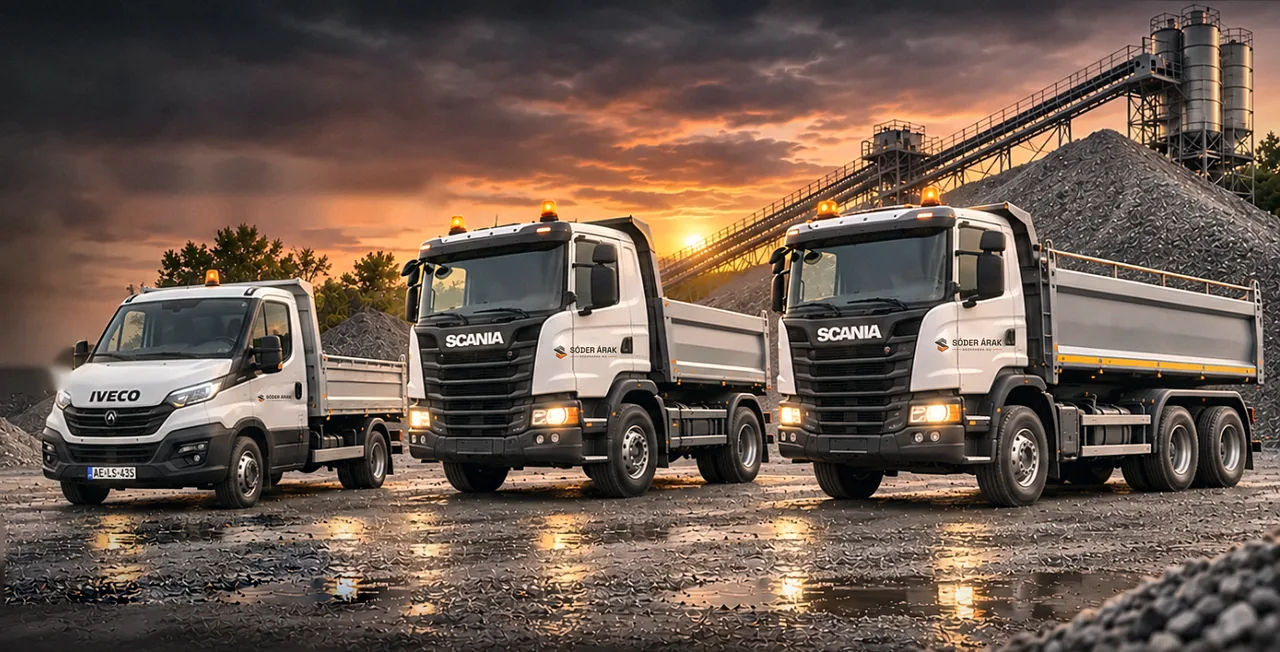
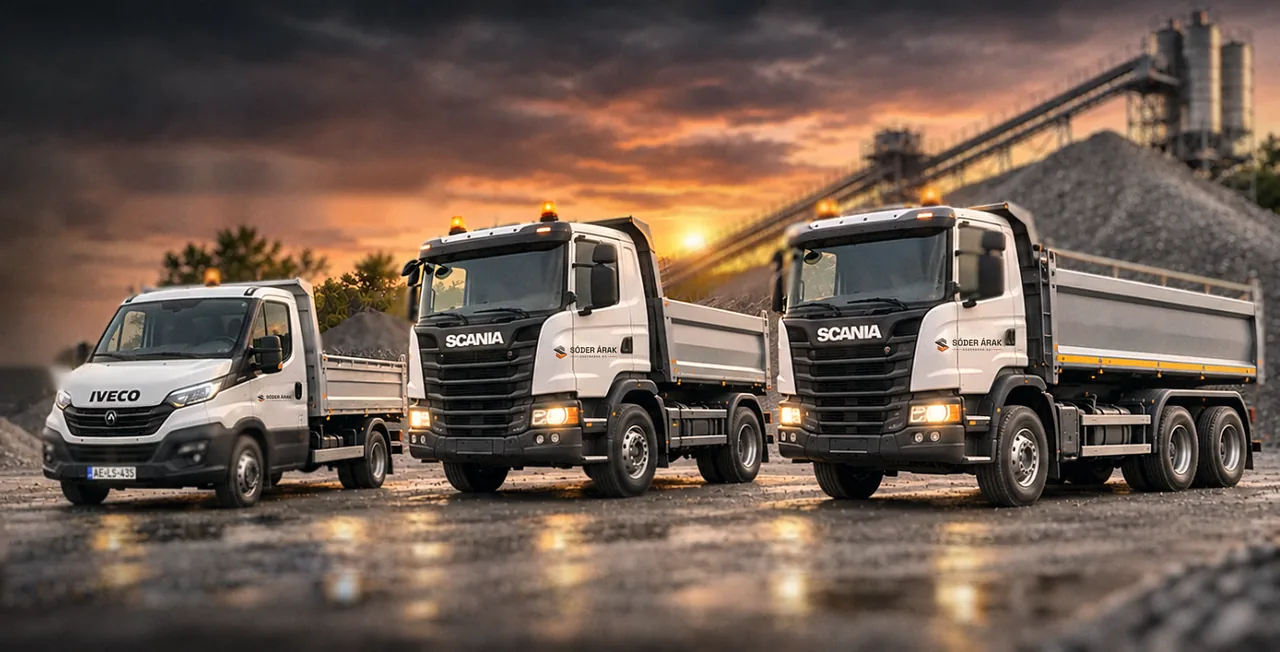
Flotta-kép: fotós mélységélesség (éles járművek, életlen háttér és előtér-talaj/kupac, bokeh), filmszemcse
Claude-Session: https://claude.ai/code/session_01As57EsXqo5U5fsLz85gMeU

diff --git a/docs/decisions.md b/docs/decisions.md
@@ -1857,3 +1857,9 @@ Branch: `redesign/flotta`, előnézet: `preview/dark`.
   elmozdulás). Az LCP-elemek (H1, hero-kép) nem indulnak átlátszóságból; a
   hero-kép fetchpriority=high. Reduced-motion alatt 0 futó animáció
   (mérve). Kalkulátor-sáv: kavics-textúra (mockup 2). Ezután `v3`.
+- 2026-11-20 16:57 ügyfél: „élethűbb, blur-effektes … látszik, hogy AI-generált
+  a földön és a kupacon". A flotta-kép fotós mélységélességet kapott: a három
+  jármű (GrabCut-maszk) éles, a háttér (ég, üzem, kupac) közepes, az előtér-
+  talaj és a jobb alsó kupac lefelé erősödő életlenséget (lineáris fényben
+  számolt, korong alakú bokeh — a pocsolya-fények fényfoltokká nyílnak);
+  egyenletes filmszemcse. Fájlnevek és méretek változatlanok.
